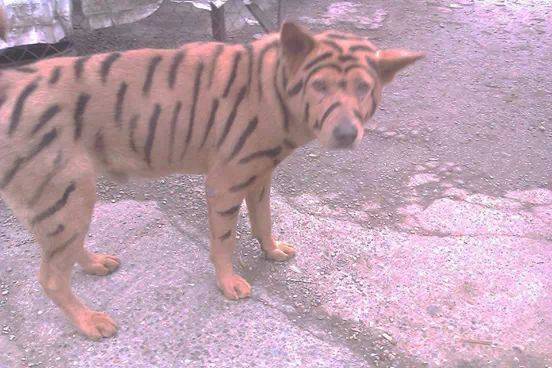
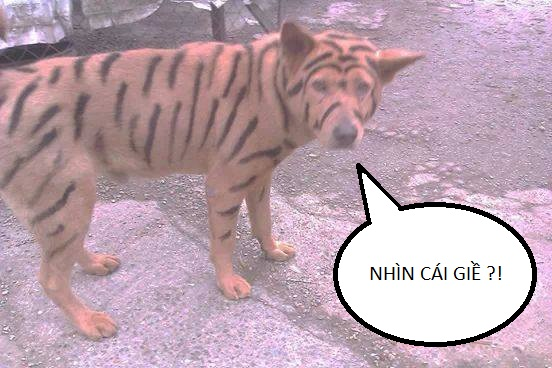
Đã chỉnh sửa !
- Thêm nội dung vào ảnh
- Thêm 1 dòng vào cuối mỗi file php

Changed region(s): [[0.5851, 0.4484, 0.9855, 0.9565]]

diff --git a/menu.php b/menu.php
@@ -1,4 +1,4 @@
-<div style="height:50px;">
+<div style="height:50px;">
   <div class="div_left">
      <div>
      <a href="index.php" >
@@ -47,3 +47,5 @@
 </div>
 
 ok all
+
+ĐÃ XEM !

diff --git a/demo.php b/demo.php
@@ -35,3 +35,5 @@
 
 </body>
 demo 1
+
+Edited !
